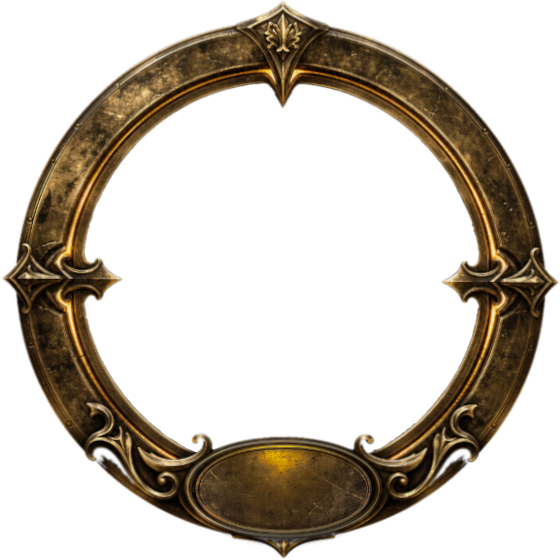
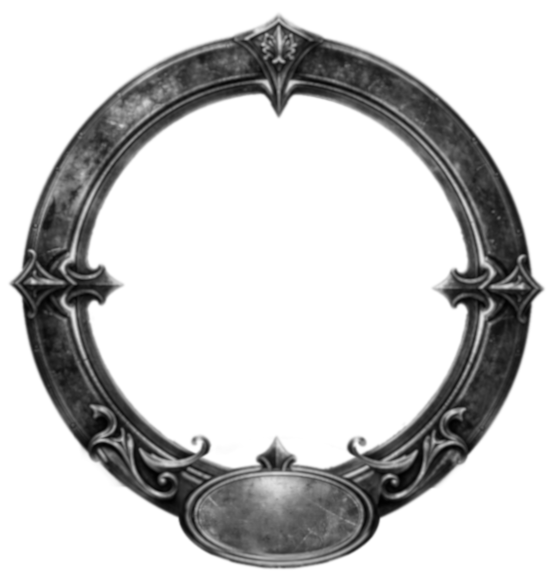
minor adjustment

diff --git a/app/characters/page.tsx b/app/characters/page.tsx
@@ -11,8 +11,8 @@ export default function Characters() {
   const [openGender, setOpenGender] = useState<string | null>(null);
 
   // Temporary Magic Bulb playground controls (top-left bulb)
-  const [demoColor, setDemoColor] = useState("#6f8fb8");
-  const [demoFill, setDemoFill] = useState(0);
+  const [demoColor, setDemoColor] = useState("#a3c62d");
+  const [demoFill, setDemoFill] = useState(50);
 
   useEffect(() => {
     const hash = window.location.hash.slice(1);
@@ -68,7 +68,7 @@ export default function Characters() {
               <img src="/images/character/frame-lens-nr-plate.png" alt="" aria-hidden="true"
                 style={{ position: "absolute", inset: 0, width: "100%", height: "100%", pointerEvents: "none", transform: "translate(-1px, 5px)" }} />
               {/* percent shown on the frame's name plate */}
-              <div style={{ position: "absolute", left: "3%", right: 0, top: "91.0%", transform: "translateY(-50%)", textAlign: "center", pointerEvents: "none", fontFamily: 'Georgia, "Times New Roman", serif', fontSize: "18px", fontWeight: 600, letterSpacing: "0.06em", color: "#1a1008", textShadow: "0 0 4px rgba(255,240,200,0.9), 0 0 8px rgba(255,240,200,0.6)" }}>
+              <div style={{ position: "absolute", left: "3%", right: 0, top: "91.0%", transform: "translateY(-50%)", textAlign: "center", pointerEvents: "none", fontFamily: 'Georgia, "Times New Roman", serif', fontSize: "18px", fontWeight: 600, letterSpacing: "0.06em", color: "#1a1008", textShadow: "0 0 6px rgba(255,240,200,1), 0 0 14px rgba(255,240,200,0.85)" }}>
                 {demoFill}%
               </div>
             </div>
@@ -99,13 +99,13 @@ export default function Characters() {
             </div>
           </div>
           <div style={{ position: "relative", width: 240, height: 240 }}>
-            <GlassMagicBulb fillPercent={100} color="#d9c48c" size={240} showPercent={false} />
+            <GlassMagicBulb fillPercent={50} color="#8b5cf6" size={240} showPercent={false} />
             {/* eslint-disable-next-line @next/next/no-img-element */}
             <img src="/images/character/frame-lens-nr-plate-dark.png" alt="" aria-hidden="true"
-              style={{ position: "absolute", inset: 0, width: "100%", height: "100%", pointerEvents: "none" }} />
+              style={{ position: "absolute", inset: 0, width: "100%", height: "100%", pointerEvents: "none", transform: "translate(-1px, 5px)" }} />
             {/* percent shown on the frame's name plate */}
-            <div style={{ position: "absolute", left: 0, right: 0, top: "87.5%", transform: "translateY(-50%)", textAlign: "center", pointerEvents: "none", fontFamily: 'Georgia, "Times New Roman", serif', fontSize: "17px", fontWeight: 600, letterSpacing: "0.06em", color: "#dcc79a", textShadow: "0 1px 2px rgba(0,0,0,0.6)" }}>
-              100%
+            <div style={{ position: "absolute", left: "3%", right: 0, top: "91.0%", transform: "translateY(-50%)", textAlign: "center", pointerEvents: "none", fontFamily: 'Georgia, "Times New Roman", serif', fontSize: "17px", fontWeight: 600, letterSpacing: "0.06em", color: "#e7c477", textShadow: "0 3px 6px rgba(0,0,0,1), 0 6px 14px rgba(0,0,0,0.85)" }}>
+              50%
             </div>
           </div>
         </div>
@@ -113,7 +113,7 @@ export default function Characters() {
         {/* middle row — 3, each bulb embedded in an ornate lens frame */}
         <div style={{ display: "flex", flexWrap: "wrap", justifyContent: "center", gap: "2rem", marginBottom: "2rem" }}>
           <div style={{ position: "relative", width: 240, height: 240 }}>
-            <GlassMagicBulb fillPercent={15} color="#a3c62d" size={240} />
+            <GlassMagicBulb fillPercent={5} color="#a3c62d" size={240} />
             {/* eslint-disable-next-line @next/next/no-img-element */}
             <img src="/images/character/frame-lens-gold.png" alt="" aria-hidden="true"
               style={{ position: "absolute", inset: 0, width: "100%", height: "100%", pointerEvents: "none" }} />
@@ -125,7 +125,7 @@ export default function Characters() {
               style={{ position: "absolute", inset: 0, width: "100%", height: "100%", pointerEvents: "none" }} />
           </div>
           <div style={{ position: "relative", width: 240, height: 240 }}>
-            <GlassMagicBulb fillPercent={90} color="#b41419" size={240} />
+            <GlassMagicBulb fillPercent={90} color="#d9c48c" size={240} />
             {/* eslint-disable-next-line @next/next/no-img-element */}
             <img src="/images/character/frame-lens-chrome.png" alt="" aria-hidden="true"
               style={{ position: "absolute", inset: 0, width: "100%", height: "100%", pointerEvents: "none" }} />